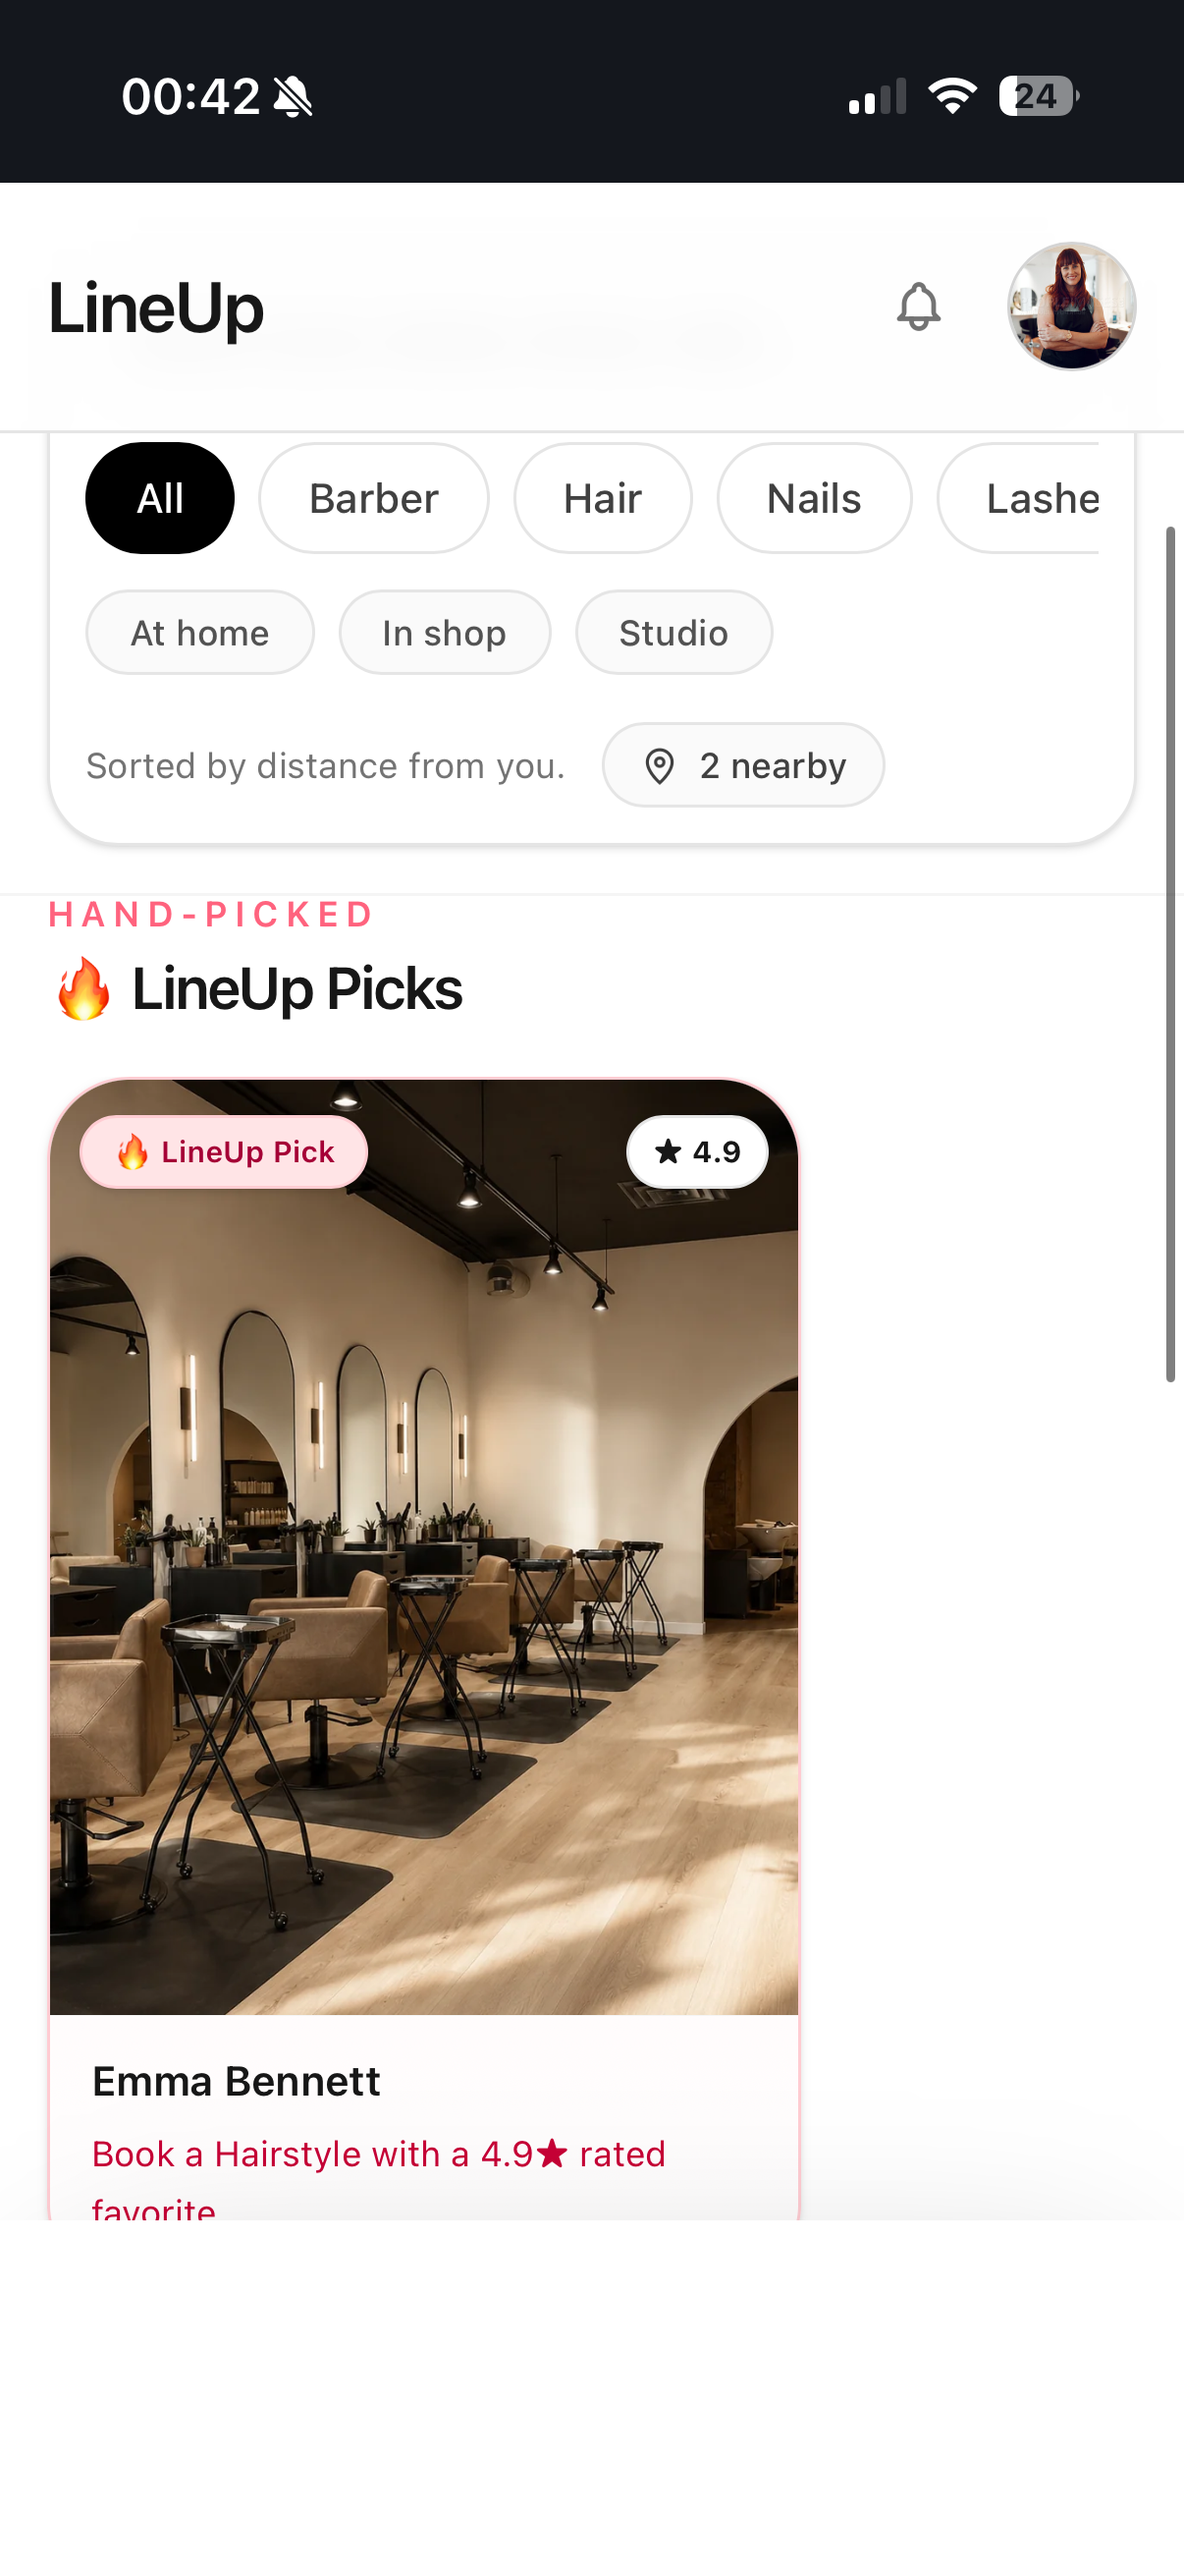
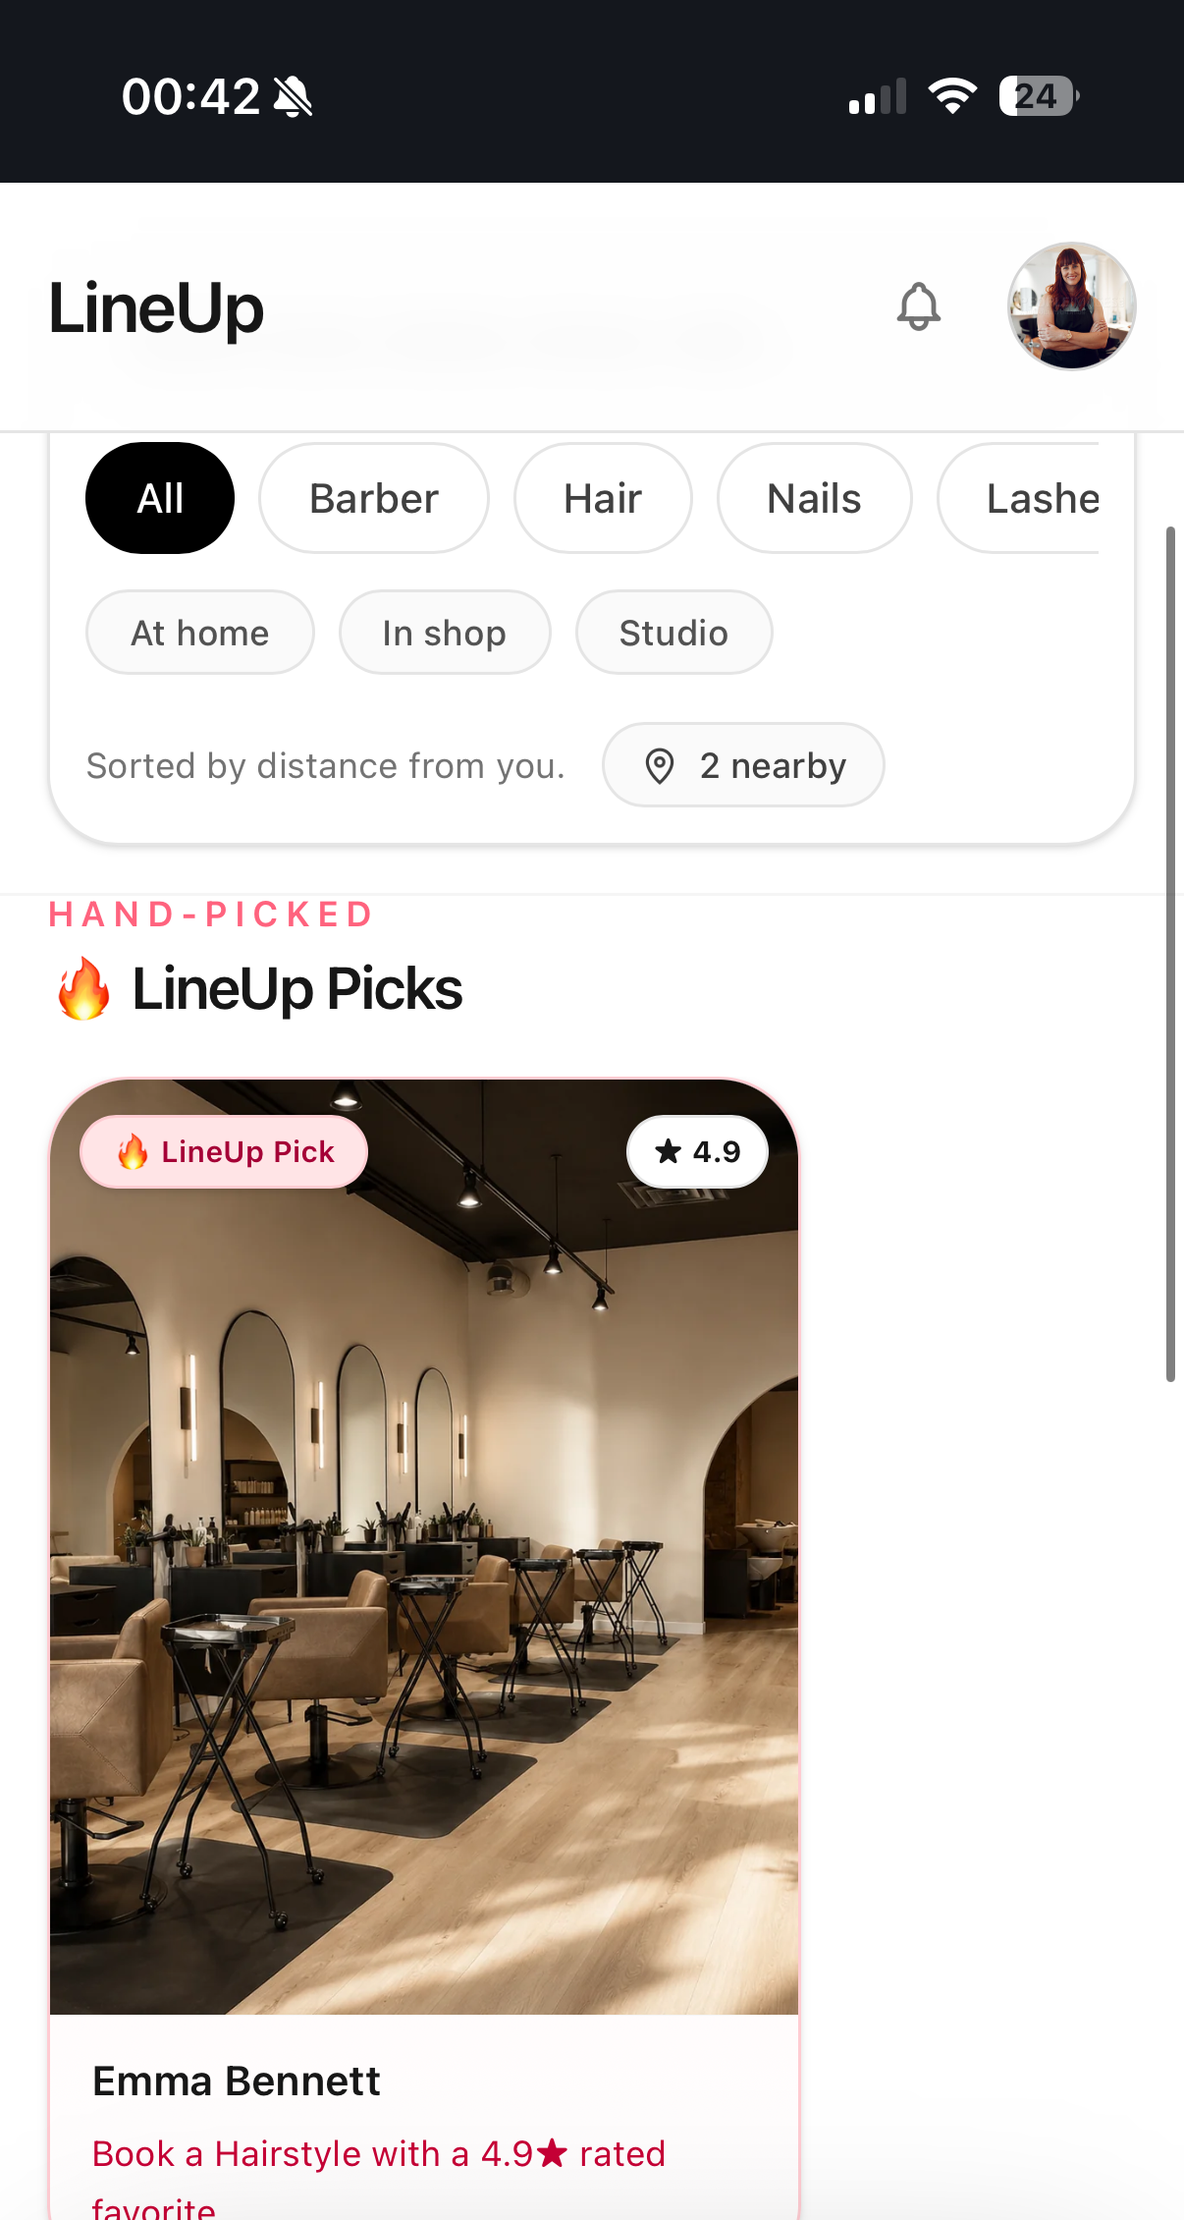
Add post-request and reference-photos screens, fix carousel white bar
Add two more screens to the app tour carousel: posting a request
(from the Activity tab) and attaching reference photos (from a
request's winner card), positioned right after the trust-building
beats and before the offer-comparison steps. Re-crop the previously
padded screenshots to their natural content height instead of adding
white filler at the bottom, and switch the phone-frame image from a
forced-crop aspect ratio to natural sizing so nothing gets cropped or
padded — eliminates the visible white bar some cards had.

diff --git a/app/page.tsx b/app/page.tsx
@@ -22,6 +22,16 @@ const appTourScreens = [
     description: "Every completed job adds to a professional's track record.",
   },
   {
+    src: "/images/app-screenshots/00-post-request.png",
+    tag: "Post a Request.",
+    description: "Share what you need, your budget, and when you want it done.",
+  },
+  {
+    src: "/images/app-screenshots/06b-reference-photos.png",
+    tag: "Add Inspiration.",
+    description: "Attach reference photos so professionals know exactly what you're going for.",
+  },
+  {
     src: "/images/app-screenshots/04-offers-compare.png",
     tag: "Compare Offers.",
     description: "Post once, get multiple offers back from nearby pros.",
@@ -440,7 +450,7 @@ export default function Page() {
                   <img
                     src={screen.src}
                     alt={screen.tag}
-                    className="aspect-[9/19.5] w-full object-cover object-top"
+                    className="block w-full h-auto"
                   />
                 </div>
                 <p
